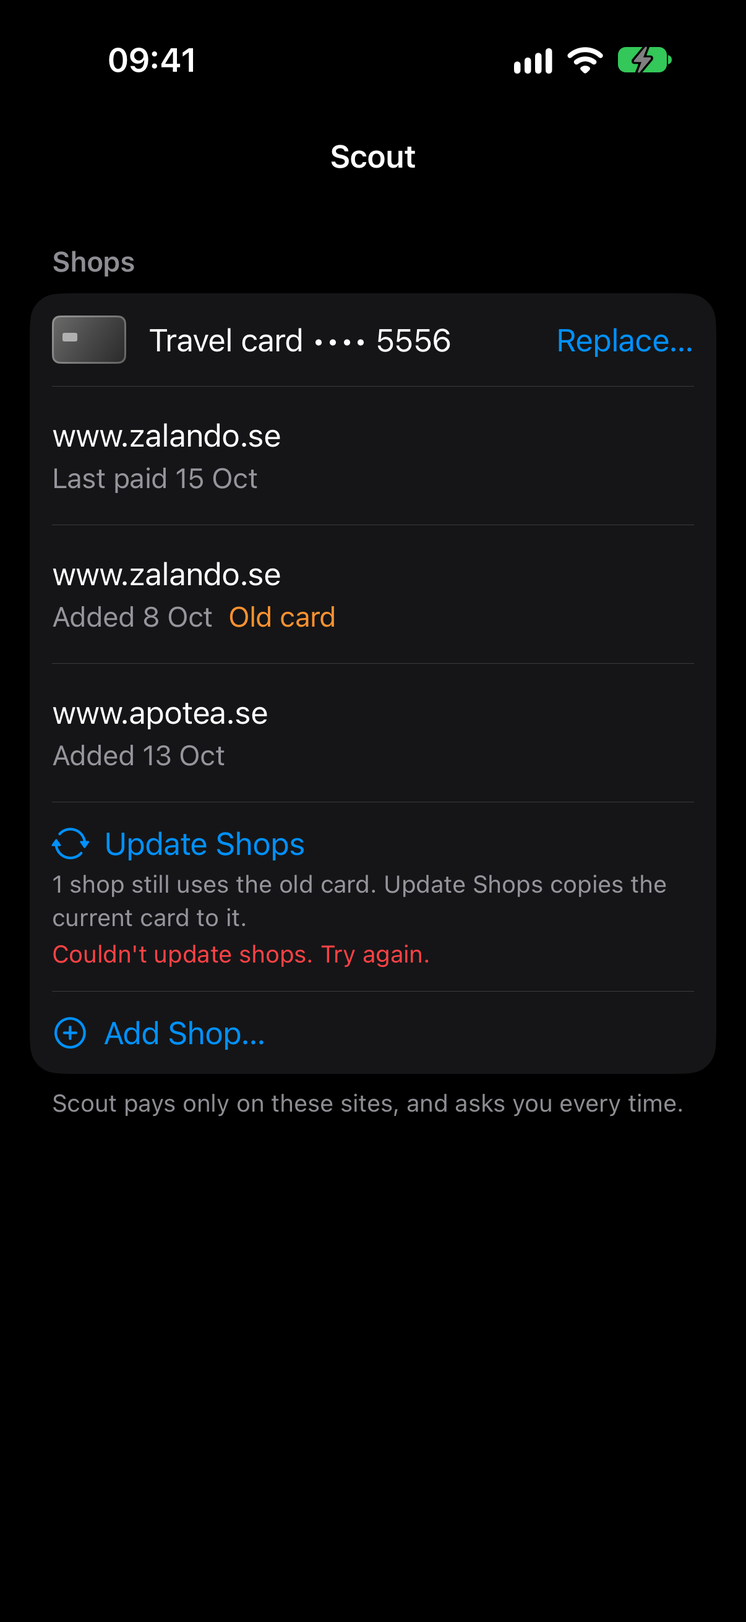
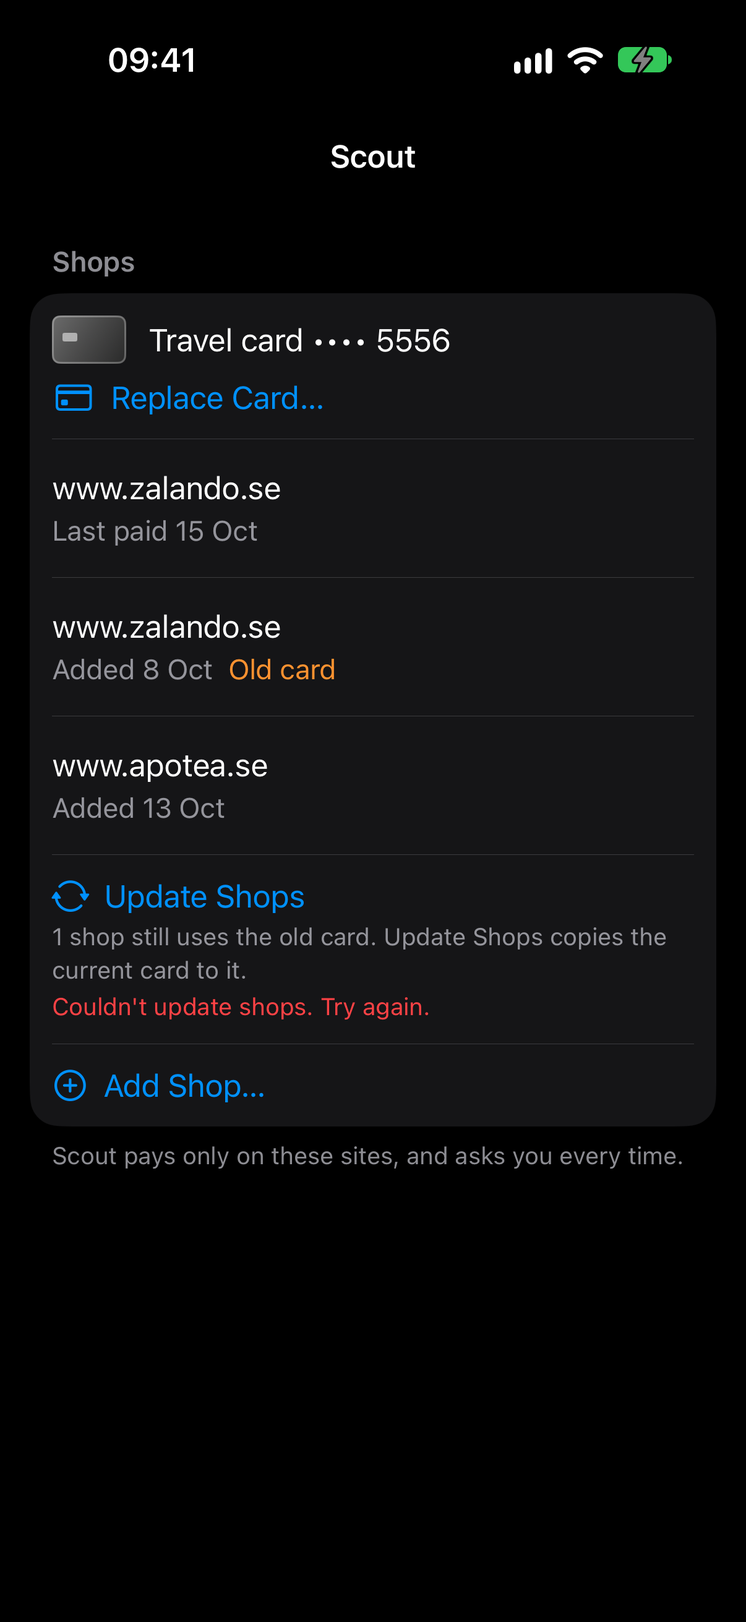
Address user-side review: Replace Card on its own line, 4-digit years, Return moves on
- Card row keeps the label and last four readable; Replace Card… sits under it
- Expiry advances only when valid; a first digit of 2 to 9 becomes 0X
- Return moves to the next field, only Label submits
- Name and label lengths count Unicode scalars like the server
- crew-push: fullmatch for card fields, a new label makes shops stale,
  the pending-payment check runs inside the vault lock

diff --git a/Sources/Inspector/Shops.swift b/Sources/Inspector/Shops.swift
@@ -98,21 +98,24 @@ struct ShopsCard: View {
             VStack(alignment: .leading, spacing: 4) {
                 HStack(spacing: 12) {
                     CardArt(width: 40, height: 26)
-                    Text("\(label) •••• \(card.last4 ?? "")")
-                        .lineLimit(1)
-                        .truncationMode(.middle)
-                    if controls.showsCardButton {
-                        Spacer(minLength: 8)
-                        Button("Replace…") { isEditingCard = true }
-                            .buttonStyle(.borderless)
-                            .accessibilityLabel("Replace Card")
-                            .disabled(!controls.canEditCard)
+                    HStack(spacing: 4) {
+                        Text(label)
+                            .lineLimit(1)
+                        Text(verbatim: "•••• \(card.last4 ?? "")")
+                            .fixedSize()
                     }
+                    .accessibilityElement(children: .combine)
                 }
                 if bot.isDefault {
                     Text("Kept here, never used to pay.")
                         .font(.footnote)
                         .foregroundStyle(.secondary)
+                }
+                if controls.showsCardButton {
+                    Button("Replace Card…", systemImage: "creditcard") { isEditingCard = true }
+                        .buttonStyle(.borderless)
+                        .disabled(!controls.canEditCard)
+                        .padding(.top, 4)
                 }
             }
         } else {
@@ -506,7 +509,7 @@ struct CardSheet: View {
             .onChange(of: expiry) {
                 let formatted = CardEntry.formattedExpiry(expiry)
                 if formatted != expiry { expiry = formatted }
-                if expiry.count == 5, focus == .expiry { focus = .cvc }
+                if expiry.count >= 5, entry.problem(.expiry) == nil, focus == .expiry { focus = .cvc }
             }
             .onChange(of: focus) { previous, _ in
                 if let previous { visited.insert(previous) }
@@ -574,7 +577,12 @@ struct CardSheet: View {
                     .textInputAutocapitalization(field == .name ? .words : .never)
                     #endif
                     .focused($focus, equals: field)
-                    .onSubmit(save)
+                    #if os(iOS)
+                    .submitLabel(field == .label ? .done : .next)
+                    #endif
+                    .onSubmit {
+                        if let next = nextField(after: field) { focus = next } else { save() }
+                    }
             }
             if visited.contains(field), focus != field, let problem = entry.problem(field) {
                 Text(problem)

diff --git a/Sources/Chat/Payments.swift b/Sources/Chat/Payments.swift
@@ -369,11 +369,12 @@ nonisolated struct CardEntry: Equatable, Sendable {
             return cvc.count == (isAmex ? 4 : 3) && cvc.allSatisfy(\.isASCIIDigit) ? nil : String(localized: "Enter the 3 or 4 digit code.")
         }
         if field == .name {
-            return name.trimmingCharacters(in: .whitespaces).count <= 64 && !name.unicodeScalars.contains(where: { [.control, .format].contains($0.properties.generalCategory) }) ? nil : String(localized: "Use a shorter name.")
+            let kept = name.unicodeScalars.filter { ![.control, .format].contains($0.properties.generalCategory) }
+            return String(String.UnicodeScalarView(kept)).split(whereSeparator: \.isWhitespace).joined(separator: " ").unicodeScalars.count <= 64 ? nil : String(localized: "Use a shorter name.")
         }
         let trimmed = label.trimmingCharacters(in: .whitespaces)
         let isForbidden = { (scalar: Unicode.Scalar) in "•·'".unicodeScalars.contains(scalar) || (scalar.properties.isWhitespace && scalar != " ") || [.control, .format].contains(scalar.properties.generalCategory) }
-        return (1...40).contains(trimmed.count) && !trimmed.unicodeScalars.contains(where: isForbidden) ? nil : String(localized: "Use up to 40 letters, digits and spaces.")
+        return (1...40).contains(trimmed.unicodeScalars.count) && !trimmed.unicodeScalars.contains(where: isForbidden) ? nil : String(localized: "Use up to 40 letters, digits and spaces.")
     }
 
     func isValid(now: Date = .now) -> Bool {
@@ -398,7 +399,8 @@ nonisolated struct CardEntry: Equatable, Sendable {
     }
 
     static func formattedExpiry(_ text: String) -> String {
-        let digits = String(text.filter(\.isASCIIDigit).prefix(6))
+        let typed = text.filter(\.isASCIIDigit)
+        let digits = String((typed.first.map { $0 >= "2" } == true ? "0" + typed : typed).prefix(6))
         return digits.count > 2 ? "\(digits.prefix(2))/\(digits.dropFirst(2))" : digits
     }
 }

diff --git a/Tests/CrewTests/CardEntryTests.swift b/Tests/CrewTests/CardEntryTests.swift
@@ -62,6 +62,7 @@ func expiryDates(expiry: String, expected: String?) {
     ("Résa 2026", nil),
     ("  Travel  ", nil),
     ("", "Use up to 40 letters, digits and spaces."),
+    (String(repeating: "e\u{301}", count: 21), "Use up to 40 letters, digits and spaces."),
     (String(repeating: "x", count: 41), "Use up to 40 letters, digits and spaces."),
     ("Visa •••• 9999", "Use up to 40 letters, digits and spaces."),
     ("Bob's card", "Use up to 40 letters, digits and spaces."),
@@ -77,6 +78,8 @@ func labels(label: String, expected: String?) {
     #expect(entry(name: "").problem(.name) == nil)
     #expect(entry(name: "Test Card").problem(.name) == nil)
     #expect(entry(name: String(repeating: "x", count: 65)).problem(.name) == "Use a shorter name.")
+    #expect(entry(name: "Test\u{200B}Card").problem(.name) == nil)
+    #expect(entry(name: String(repeating: "e\u{301}", count: 40)).problem(.name) == "Use a shorter name.")
 }
 
 @Test func theBodyCarriesNormalisedValues() {
@@ -94,6 +97,9 @@ func labels(label: String, expected: String?) {
     #expect(CardEntry.formattedExpiry("1230") == "12/30")
     #expect(CardEntry.formattedExpiry("12/2030") == "12/2030")
     #expect(CardEntry.formattedExpiry("1") == "1")
+    #expect(CardEntry.formattedExpiry("825") == "08/25")
+    #expect(CardEntry.formattedExpiry("08/25") == "08/25")
+    #expect(CardEntry.formattedExpiry("0") == "0")
     #expect(CardEntry.formattedExpiry("12") == "12")
     #expect(entry(number: "4242 4242 4242 4242").isNumberComplete)
     #expect(!entry(number: "4242 4242 4242 424").isNumberComplete)

diff --git a/Tests/CrewUITests/PaymentUITests.swift b/Tests/CrewUITests/PaymentUITests.swift
@@ -138,9 +138,9 @@ final class PaymentUITests: XCTestCase {
 
         XCTAssertTrue(waitForLog("card Shopping card 12/2030", in: app))
         XCTAssertTrue(number.waitForNonExistence(timeout: 5))
-        XCTAssertTrue(app.staticTexts["Shopping card •••• 4242"].waitForExistence(timeout: 5))
+        XCTAssertTrue(app.descendants(matching: .any).matching(NSPredicate(format: "label CONTAINS %@ AND label CONTAINS %@", "Shopping card", "•••• 4242")).firstMatch.waitForExistence(timeout: 5))
 
-        app.buttons["Replace Card"].tap()
+        app.buttons["Replace Card…"].tap()
         XCTAssertTrue(number.waitForExistence(timeout: 5))
         XCTAssertTrue(app.navigationBars["Replace Card"].exists)
         XCTAssertNotEqual(number.value as? String, "4242 4242 4242 4242")

diff --git a/server/crew-push/crew_push/payments.py b/server/crew-push/crew_push/payments.py
@@ -68,6 +68,10 @@ class InvalidCard(ValueError):
     pass
 
 
+class PaymentPending(RuntimeError):
+    pass
+
+
 def no_card_for(origin: str) -> str:
     return f"There is no card for {origin}. Tell the user they can add this shop in Crew, then wait."
 
@@ -176,10 +180,10 @@ def card_entry(body: Any, now: datetime) -> tuple[str, dict[str, str]]:
     if not isinstance(body, dict) or not all(isinstance(body.get(key, ""), str) for key in CARD_FIELDS):
         raise InvalidCard("body")
     number = re.sub(r"[ -]", "", body.get("card_number", ""))
-    if not CARD_NUMBER.match(number) or not luhn(number):
+    if not CARD_NUMBER.fullmatch(number) or not luhn(number):
         raise InvalidCard("number")
     month, year = body.get("exp_month", "").strip(), body.get("exp_year", "").strip()
-    if not EXP_MONTH.match(month) or not EXP_YEAR.match(year):
+    if not EXP_MONTH.fullmatch(month) or not EXP_YEAR.fullmatch(year):
         raise InvalidCard("expiry")
     expiry = (int(year) if len(year) == 4 else 2000 + int(year), int(month))
     if expiry[0] > now.year + 20:
@@ -223,19 +227,25 @@ def pending_payment(profile: str) -> bool:
                and (entry.get("expires_at") or 0) > now for entry in store.read_list("payments.json"))
 
 
+def copy_label(card: Any, secret: dict[str, Any], origin: str) -> str:
+    return f"{card.label} •••• {last4(secret)} · {host_of(origin)}"
+
+
 def update_shops(profile: str) -> None:
     with vault_lock():
+        if pending_payment(profile):
+            raise PaymentPending(profile)
         card, secret = master()
         vault = profile_vault(profile)
         current = shops(vault)
         for origin in dict.fromkeys(item.origin for item in current):
             items = [item for item in current if item.origin == origin]
-            stale = [item for item in items if vault.resolve_secret(item.id) != secret]
+            stale = [item for item in items
+                     if vault.resolve_secret(item.id) != secret or item.label != copy_label(card, secret, origin)]
             if not stale:
                 continue
             if len(stale) == len(items):
-                vault.add_item(kind="payment", label=f"{card.label} •••• {last4(secret)} · {host_of(origin)}",
-                               secret=secret, origin=origin)
+                vault.add_item(kind="payment", label=copy_label(card, secret, origin), secret=secret, origin=origin)
             for item in stale:
                 vault.remove_item(item.id)
 
@@ -248,13 +258,15 @@ def shops(vault: Any) -> list[Any]:
     return [item for item in vault.list_items() if item.kind == "payment" and item.origin]
 
 
-def shop(item: Any, secret: dict[str, Any], master_secret: dict[str, Any] | None, profile: str) -> dict[str, Any]:
+def shop(item: Any, secret: dict[str, Any], master_secret: dict[str, Any] | None, profile: str,
+         master_label: str | None = None) -> dict[str, Any]:
     host = host_of(item.origin)
     paid = [entry.get("decided_at") or 0.0 for entry in store.read_list("payments.json")
             if entry.get("profile") == profile and entry.get("origin") == item.origin and entry.get("state") == "approved"]
     return {"id": item.id, "origin": item.origin, "host": host,
             "created_at": datetime.fromisoformat(item.created_at).timestamp(), "last_paid_at": max(paid, default=None),
-            "stale": master_secret is not None and secret != master_secret,
+            "stale": master_secret is not None and (secret != master_secret or (
+                master_label is not None and item.label != f"{master_label} · {host}")),
             "punycode": any(label.startswith("xn--") for label in host.split("."))}
 
 

diff --git a/server/crew-push/dashboard/plugin_api.py b/server/crew-push/dashboard/plugin_api.py
@@ -164,14 +164,15 @@ def list_shops(profile: str) -> dict[str, Any]:
     try:
         card, master_secret = payments.master()
         card_row = {"label": card.label, "last4": payments.last4(master_secret), "problem": None}
+        master_label = f"{card.label} •••• {card_row['last4']}"
     except payments.CardProblem as problem:
-        card_row, master_secret = {"label": None, "last4": None, "problem": str(problem)}, None
+        card_row, master_secret, master_label = {"label": None, "last4": None, "problem": str(problem)}, None, None
     vault = payments.profile_vault(profile)
     config_path = get_profile_dir(profile) / "config.yaml"
     config = hermes_yaml.safe_load(config_path.read_text()) if config_path.is_file() else None
     terminal = config.get("terminal") if isinstance(config, dict) else None
     return {"card": card_row,
-            "shops": [payments.shop(item, vault.resolve_secret(item.id), master_secret, profile)
+            "shops": [payments.shop(item, vault.resolve_secret(item.id), master_secret, profile, master_label)
                       for item in payments.shops(vault)],
             "terminal_backend": str(terminal.get("backend") or "local") if isinstance(terminal, dict) else "local",
             "gate": store.read_gate()}
@@ -204,17 +205,18 @@ def add_shop(body: ShopIn) -> dict[str, Any]:
 def update_shops(body: ProfileIn, request: Request) -> dict[str, Any]:
     checked_gate(request)
     checked_profile(body.profile)
-    if payments.pending_payment(body.profile):
-        raise failure(409, "payment_pending")
     try:
         payments.update_shops(body.profile)
         card, master_secret = payments.master()
+    except payments.PaymentPending:
+        raise failure(409, "payment_pending") from None
     except payments.CardProblem as problem:
         raise failure(409, "no_card" if str(problem) == "missing" else "several_cards") from None
     except Exception:
         raise failure(500, "vault_error") from None
     vault = payments.profile_vault(body.profile)
-    return {"shops": [payments.shop(item, vault.resolve_secret(item.id), master_secret, body.profile)
+    master_label = f"{card.label} •••• {payments.last4(master_secret)}"
+    return {"shops": [payments.shop(item, vault.resolve_secret(item.id), master_secret, body.profile, master_label)
                       for item in payments.shops(vault)]}
 
 

diff --git a/server/crew-push/tests/test_card_routes.py b/server/crew-push/tests/test_card_routes.py
@@ -151,6 +151,8 @@ def test_every_vault_write_holds_the_lock(client: TestClient, master: Path, vaul
     ({"card_number": "4242 4242 4242 4241"}, "number"),
     ({"card_number": "4242-4242-4242-424x"}, "number"),
     ({"card_number": "42424242"}, "number"),
+    ({"card_number": "4242424242424242\n"}, "number"),
+    ({"exp_month": "1\n2", "exp_year": "30"}, "expiry"),
     ({"card_number": ""}, "number"),
     ({"exp_month": "13"}, "expiry"),
     ({"exp_month": "00"}, "expiry"),
@@ -308,3 +310,16 @@ def test_update_shops_errors(client: TestClient, vaults: Vaults, hermes_root: Pa
                                   ("ghost", 404, "error-unknown-profile.json")):
         response = client.post(f"{API}/payments/shops/update", json={"profile": profile})
         assert response.status_code == status and response.json() == fixture(name)
+
+
+def test_a_new_label_makes_shops_stale(client: TestClient, master: Path, vaults: Vaults, hermes_root: Path) -> None:
+    put_card(client, card_number="4242 4242 4242 4242", exp_month="12", exp_year="30", cvc="123",
+             cardholder_name="Gustaf Eriksson", label="Shopping card")
+    add_shop(client)
+    assert not client.get(f"{API}/payments", params={"profile": "scout"}).json()["shops"][0]["stale"]
+    put_card(client, card_number="4242 4242 4242 4242", exp_month="12", exp_year="30", cvc="123",
+             cardholder_name="Gustaf Eriksson", label="Travel card")
+    assert client.get(f"{API}/payments", params={"profile": "scout"}).json()["shops"][0]["stale"]
+    client.post(f"{API}/payments/shops/update", json={"profile": "scout"})
+    [copy] = vaults.records[scout_vault(hermes_root)]
+    assert copy["label"] == "Travel card •••• 4242 · www.zalando.se"

diff --git a/docs/flows/master-card.md b/docs/flows/master-card.md
@@ -1,6 +1,6 @@
 # Master card from Crew: Add Card, Replace Card, Update Shops
 
-Issue #57, superseding #54 (Copy Setup Command). Today the master card (the single `payment` item without an origin in the default profile's vault, [payments.md](payments.md#the-master-card)) is added by running a Python one-liner inside the Hermes environment. New: the inspector's **Shops** card offers **Add Card…** and **Replace…**, a native card form that sends the values once to a crew-push route, which stores them with `VaultStore.add_item` and answers with the label and last four only. After a replace, **Update Shops** re-copies the new card into the bot's shops. API shapes: [payments-contract.md](payments-contract.md#put-paymentscard).
+Issue #57, superseding #54 (Copy Setup Command). Today the master card (the single `payment` item without an origin in the default profile's vault, [payments.md](payments.md#the-master-card)) is added by running a Python one-liner inside the Hermes environment. New: the inspector's **Shops** card offers **Add Card…** and **Replace Card…**, a native card form that sends the values once to a crew-push route, which stores them with `VaultStore.add_item` and answers with the label and last four only. After a replace, **Update Shops** re-copies the new card into the bot's shops. API shapes: [payments-contract.md](payments-contract.md#put-paymentscard).
 
 This reverses one stated decision: the card number now passes through the client once. These lines change with this spec: [payments.md](payments.md) "Crew cannot add it", Copy Setup Command, "Remove and add the shop again to update it" and the out-of-scope "Re-copying shops"; [docs/payments.md](../payments.md) step 4's server command and step 1's "the only time a card is added by hand", plus its threat model; the contract's fixture list; a Decisions line in `docs/PLAN.md`.
 
@@ -14,6 +14,7 @@ This reverses one stated decision: the card number now passes through the client
 - **Fail closed:** the card routes refuse with `403 login_off` unless the dashboard reports its login gate on (`request.app.state.auth_required is True`, the gate the payment hooks require), on top of the dashboard login itself. Crew disables Add Card, Replace and Update Shops while `gate` is not `true`, and the existing red "Payments are off" footer says why. A card is never written when there are several cards without a website.
 - **One writer at a time:** every master and copy mutation (Add Card, Replace, Update Shops, and the existing Add Shop and Remove Shop) runs under one crew-push lock (a file lock next to `payments.json`, as for `devices.json`), which re-reads the masters inside the lock, so two devices replacing at once end with exactly one card (the later one).
 - **Replace** adds the new master first, then removes the old one by the id read under the lock, so a failure in between leaves two cards ("More than one card on the server"), never none. If removing the old one throws, the route tries to remove the new one again and answers `500 vault_error` either way; the Shops card reloads and shows whatever the vault holds.
+- A shop is stale when its secret differs from the master or its label is not `<master label> •••• <last4> · <host>`, so replacing with the same number under a new label also offers Update Shops.
 - **Update Shops** re-copies every stale shop of the bot (a new item on the same origin with the current label, then the old item removed) and is idempotent: an origin that already has a fresh copy only loses its stale twins, so a run that failed half way is finished by running it again (until then the twin shows as a second row for the same host, one with "Old card"). It refuses with `409 payment_pending` while a payment for that bot is pending (state `pending` and `expires_at` still ahead, so an entry stranded by a restart never blocks it), since re-copied shops get new vault ids and the waiting fill would find "no item". A bot holding an old handle in a later turn gets "no item" from `browser_vault fill` and lists again.
 - Update Shops is per bot, like the Shops card: the master is shared, so after a replace every bot's Shops card shows its own stale rows and its own Update Shops. Hand-added shop items with another card also read "Old card" and Update Shops replaces them with the master; the footnote says so.
 - First card on a server without a default vault: `add_item` creates `vault/vault.key` and `vault.json.enc` (0600) as the user the dashboard runs as, which is the user Hermes runs as.
@@ -24,7 +25,7 @@ This reverses one stated decision: the card number now passes through the client
 Only the card row and a new Update Shops row change; shop rows, Add Shop, footers and the other states stay as in [payments.md](payments.md#shops-inspector-info-tab).
 
 - **No card:** `creditcard.trianglebadge.exclamationmark` "No card on the server", footnote "Add the card Crew copies to each shop you add. Bots never see the number.", and **Add Card…** (`plus.circle`, borderless, like Add Shop). Add Shop stays disabled.
-- **One card:** card art, "Shopping card •••• 4242" (one line, truncating the label in the middle so the last four always show), and a trailing borderless **Replace…** button (VoiceOver "Replace Card"). The default profile keeps "Kept here, never used to pay."
+- **One card:** card art and "Shopping card •••• 4242" (one line; a long label truncates at its end, the last four always show), then **Replace Card…** (`creditcard`, borderless) on its own line, as Add Card… in the no-card state. The default profile keeps "Kept here, never used to pay." between them.
 - **Several cards:** unchanged: "More than one card on the server", "Keep one card without a website; Crew can't tell which to use." No Add or Replace (the server would refuse with `several_cards`). Picking which card to keep is a follow-up.
 - **Old card in some shops:** under the shop rows, **Update Shops** (`arrow.triangle.2.circlepath`, borderless) with the footnote "2 shops still use the old card. Update Shops copies the current card to them." (singular "1 shop still uses…"). While it runs, a small `ProgressView` replaces the button. On success the rows lose "Old card" and briefly highlight, as after Add Shop. Errors show in red under the button: `payment_pending` "Finish or deny the waiting payment first.", anything else "Couldn't update shops. Try again."; after any error the list reloads, so rows show their real state.
 - **Offline or `gate` not true:** Add Card, Replace and Update Shops are disabled, like Add Shop offline.
@@ -36,7 +37,7 @@ Same presentation as Add Shop: iPhone `.large` sheet with a grabber (four fields
 
 Grouped `Form`:
 
-1. **Card Number:** prompt "1234 5678 9012 3456", formatted as typed (4-4-4-4, American Express 4-6-5), digits only kept, at most 19. **Expiry:** prompt "MM/YY", a slash inserted after the month; "MM/YYYY" from AutoFill is accepted too. **Security Code:** `SecureField`, prompt "CVC" (4 digits for American Express, 3 otherwise). **Name on Card:** prompt "Optional". iPhone uses the number pad for number, expiry and code, moves to the next field once the number is complete and valid and once the expiry is complete, and shows **Next** and **Done** above the keyboard (number pads have no Return). Every field: autocorrection off, no capitalisation except the name (words), `textContentType` `.creditCardNumber`, `.creditCardExpiration`, `.creditCardSecurityCode`, `.creditCardName`, which gives the iOS keyboard's AutoFill of saved cards and its Scan Card camera option at no extra code.
+1. **Card Number:** prompt "1234 5678 9012 3456", formatted as typed (4-4-4-4, American Express 4-6-5), digits only kept, at most 19. **Expiry:** prompt "MM/YY", a slash inserted after the month; "MM/YYYY" from AutoFill is accepted too, and a first digit of 2 to 9 becomes "0X/" as in Wallet. Focus moves on only once the expiry is valid, so a four-digit year can be typed. **Security Code:** `SecureField`, prompt "CVC" (4 digits for American Express, 3 otherwise). **Name on Card:** prompt "Optional". iPhone uses the number pad for number, expiry and code, moves to the next field once the number is complete and valid and once the expiry is complete, and shows **Next** and **Done** above the keyboard (number pads have no Return). Return in a field moves to the next one; only Return in Label submits. Every field: autocorrection off, no capitalisation except the name (words), `textContentType` `.creditCardNumber`, `.creditCardExpiration`, `.creditCardSecurityCode`, `.creditCardName`, which gives the iOS keyboard's AutoFill of saved cards and its Scan Card camera option at no extra code.
    Footer: "Crew sends the card once to your Hermes server, which keeps it encrypted. Crew doesn't store it, and bots never see the number." For Replace it adds: "Each bot's shops keep the old card until you update them in its Shops card."
 2. **Label:** prefilled "Shopping card" (on Replace, the current label). Footer: "Shown in Crew and to bots with the last four digits, such as Shopping card •••• 4242."
 
@@ -48,7 +49,7 @@ Validation, shown under the field in red footnote text once the field loses focu
 | Expiry | month 01 to 12, year 2 or 4 digits, at most 20 years ahead | "Check the expiry date." |
 | Expiry | valid through the last day of its month, on the device's calendar (the server allows one month of slack for time zones) | "This card has expired." |
 | Code | 4 digits for numbers starting 34 or 37, 3 otherwise | "Enter the 3 or 4 digit code." |
-| Name | at most 64 characters, no control characters | "Use a shorter name." |
+| Name | at most 64 characters (Unicode scalars, after control and format characters are dropped and spaces collapsed, as the server stores it) | "Use a shorter name." |
 | Label | 1 to 40 characters after trimming, none of `•`, `·`, `'`, line breaks or control characters (they would break or fake the `<label> •••• <last4> · <host>` the payment card parses) | "Use up to 40 letters, digits and spaces." |
 
 Server errors show as one red line at the top of the form: `invalid_card` per reason (the same messages), `login_off` "Payments are off: this server has no dashboard login.", `several_cards` "Keep one card without a website on the server.", `vault_error` "Couldn't save the card on the server.", 5xx, 3xx or network "Couldn't reach Hermes. Try again.", offline (state not connected) "You're offline." The fields are already empty; the user types the card again (deliberate: a failed send does not keep the number around).

diff --git a/docs/payments.md b/docs/payments.md
@@ -94,7 +94,7 @@ Then restart Hermes the way it runs on `<host>` (for example its systemd service
   - crew-push 0.5.0 route `POST /api/plugins/crew-push/cards {profile, site}` (dashboard login required). It turns `site` into `https://<host>` (https only, no IPs or localhost, lowercase), refuses an origin the profile already has, reads the master card (the single `payment` item without origin in `get_default_hermes_root()/vault`; 409 if there are none or several), and calls `VaultStore(get_profile_dir(profile) / "vault").add_item(kind="payment", label="<master label> · <host>", origin=..., secret=<master secret>)`. Returns metadata only.
   - Inspector "Shops" section: lists the bot's payment items (`vault.list {profile}`), "Add shop website" calls the route, swipe to delete calls `vault.remove {profile, id}`. `xn--` hosts get a warning. If the bot's `terminal.backend` is `local` (`GET /api/config?profile=`), a footnote says other bots on the server can read the card.
 - **Files:** `server/crew-push/dashboard/plugin_api.py`, `tests/test_routes.py`, version files; `Sources/Inspector/BotInspector.swift`, new `Sources/Inspector/Shops.swift`, `Sources/Inspector/InspectorSnapshots.swift`, a Decisions line in `docs/PLAN.md`.
-- **Server:** deploy crew-push. Then add the master card once from Crew: Shops > **Add Card…** (crew-push 0.5.0, [flows/master-card.md](flows/master-card.md)), which stores it in the launch profile's vault with no origin; `hermes vault add` cannot, since Hermes 0.22.1 insists on an origin for payment items. Use the 4242 test card until step 4 is verified, then **Replace…** it with the real virtual card and tap **Update Shops** in each bot's Shops card. Remove the step 1 card (`hermes -p crew-test vault rm <id of Test 4242>` in the Hermes environment). The vault files must stay owned by the user Hermes runs as (`ssh <host> chown -R <uid>:<gid> <hermes-data-dir>/vault` if not).
+- **Server:** deploy crew-push. Then add the master card once from Crew: Shops > **Add Card…** (crew-push 0.5.0, [flows/master-card.md](flows/master-card.md)), which stores it in the launch profile's vault with no origin; `hermes vault add` cannot, since Hermes 0.22.1 insists on an origin for payment items. Use the 4242 test card until step 4 is verified, then **Replace Card…** it with the real virtual card and tap **Update Shops** in each bot's Shops card. Remove the step 1 card (`hermes -p crew-test vault rm <id of Test 4242>` in the Hermes environment). The vault files must stay owned by the user Hermes runs as (`ssh <host> chown -R <uid>:<gid> <hermes-data-dir>/vault` if not).
 
   If the default profile is a bot, it sees "Shopping card" in `browser_vault list` but cannot fill it (`no_origin`).
 - **Verify on crew-test:** add `gustaferiksson.github.io` in the inspector, then the step 1 purchase works end to end; adding it twice, `http://` or an IP is refused; POST without a login gives 401; `hermes -p crew-test vault list` shows the copy with its origin.

diff --git a/docs/flows/payments.md b/docs/flows/payments.md
@@ -23,7 +23,7 @@ Scout is buying winter boots. A card slides up above the composer: a small card 
 
 ### The master card
 
-- Added or replaced from the Shops card with **Add Card…** / **Replace…** (crew-push 0.5.0 stores it with `VaultStore.add_item`, kind payment, no origin; `hermes vault add` cannot, since 0.22.1 requires an origin for payment items). The number passes through Crew once and is never kept there: [master-card.md](master-card.md).
+- Added or replaced from the Shops card with **Add Card…** / **Replace Card…** (crew-push 0.5.0 stores it with `VaultStore.add_item`, kind payment, no origin; `hermes vault add` cannot, since 0.22.1 requires an origin for payment items). The number passes through Crew once and is never kept there: [master-card.md](master-card.md).
 - Every bot's **Shops** card starts with a card row:
   - **One card:** a small card art (rounded rect, 40 × 26 pt, a fixed graphite gradient with a 1 pt hairline so it reads in light and dark) and "Shopping card •••• 4242".
   - **No card:** "No card on the server", footer "Add the card Crew copies to each shop you add. Bots never see the number.", and **Add Card…** ([master-card.md](master-card.md)). Add Shop is disabled.
